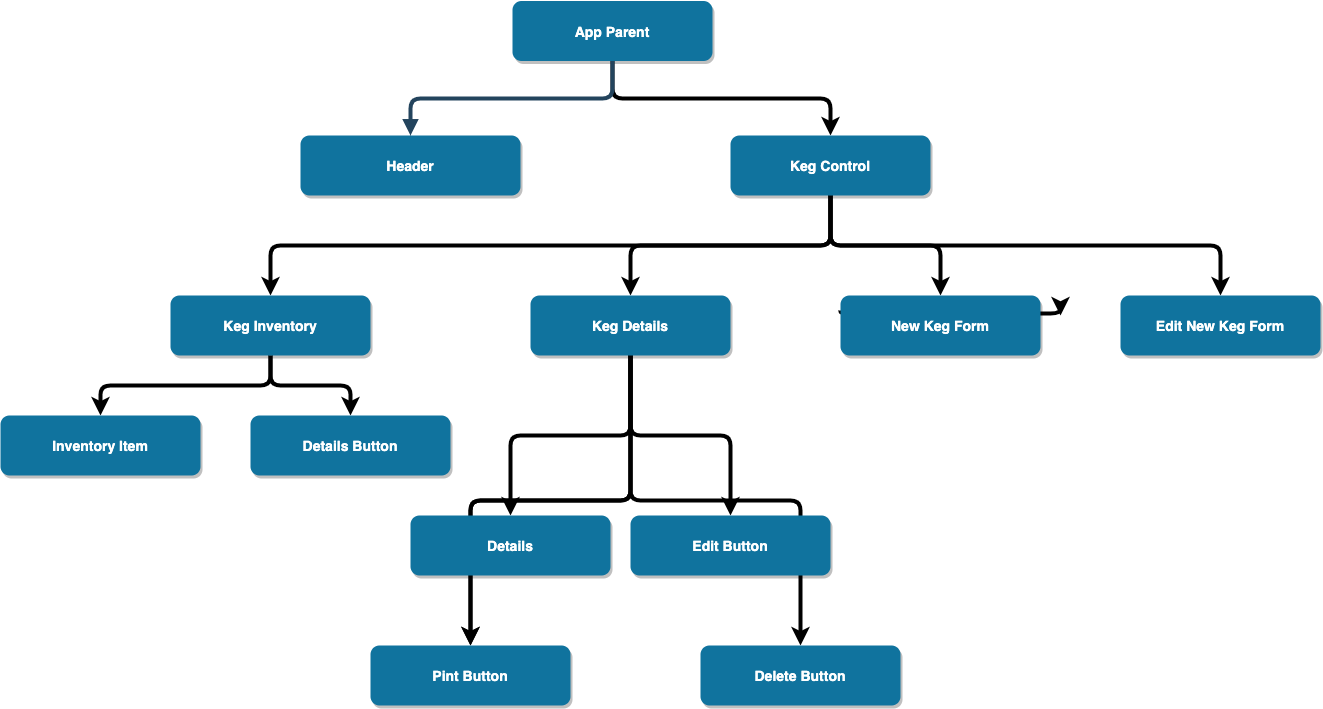
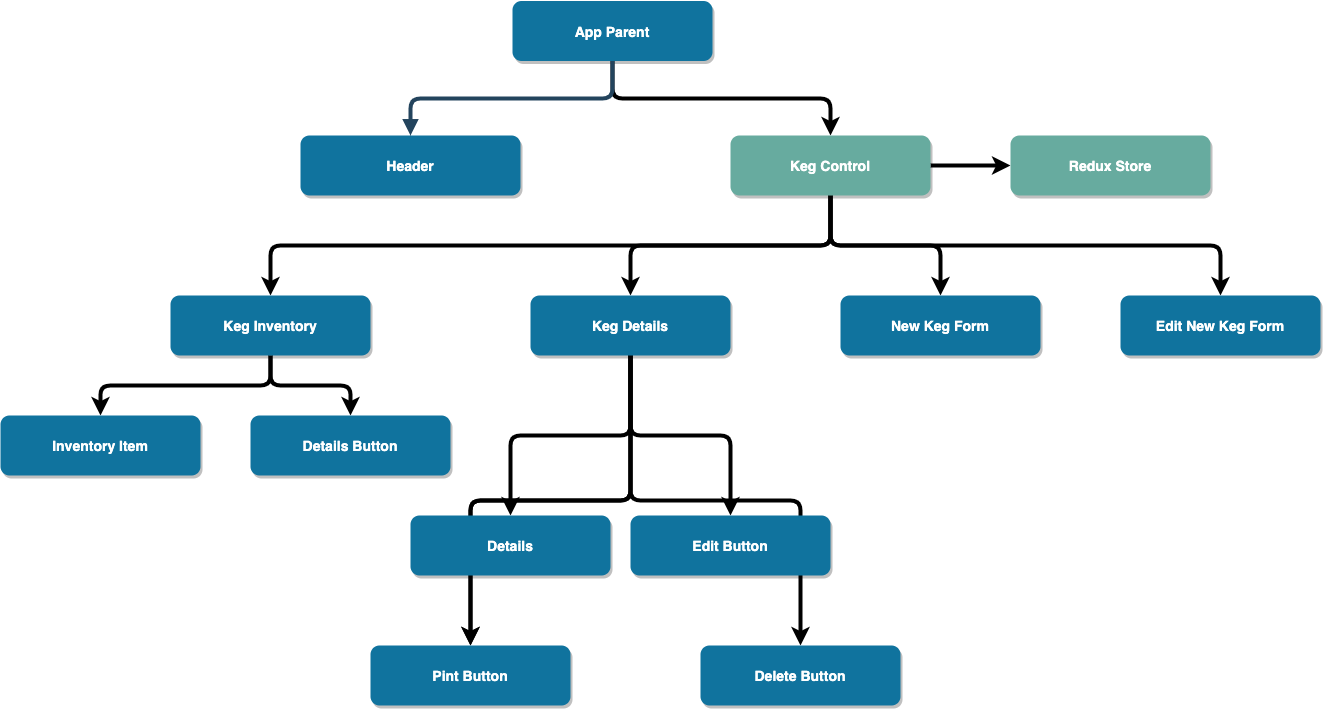
update wireframe and diagram in readme

Changed region(s): [[0.5268, 0.1862, 0.9297, 0.2793], [0.7748, 0.4034, 0.8057, 0.4654]]

diff --git a/README.md b/README.md
@@ -6,10 +6,10 @@
 
 ## Components Hierarchy
 
-![Diagram](public/TapRoomDiagram.png)
+![Diagram](public/TaproomDiagram.png)
 
 ## Site Components Wireframe
-![Wireframe](public/TapRoomWireframe.png)
+![Wireframe](public/TaproomWireframe.png)
 
 ## User Stories
 
